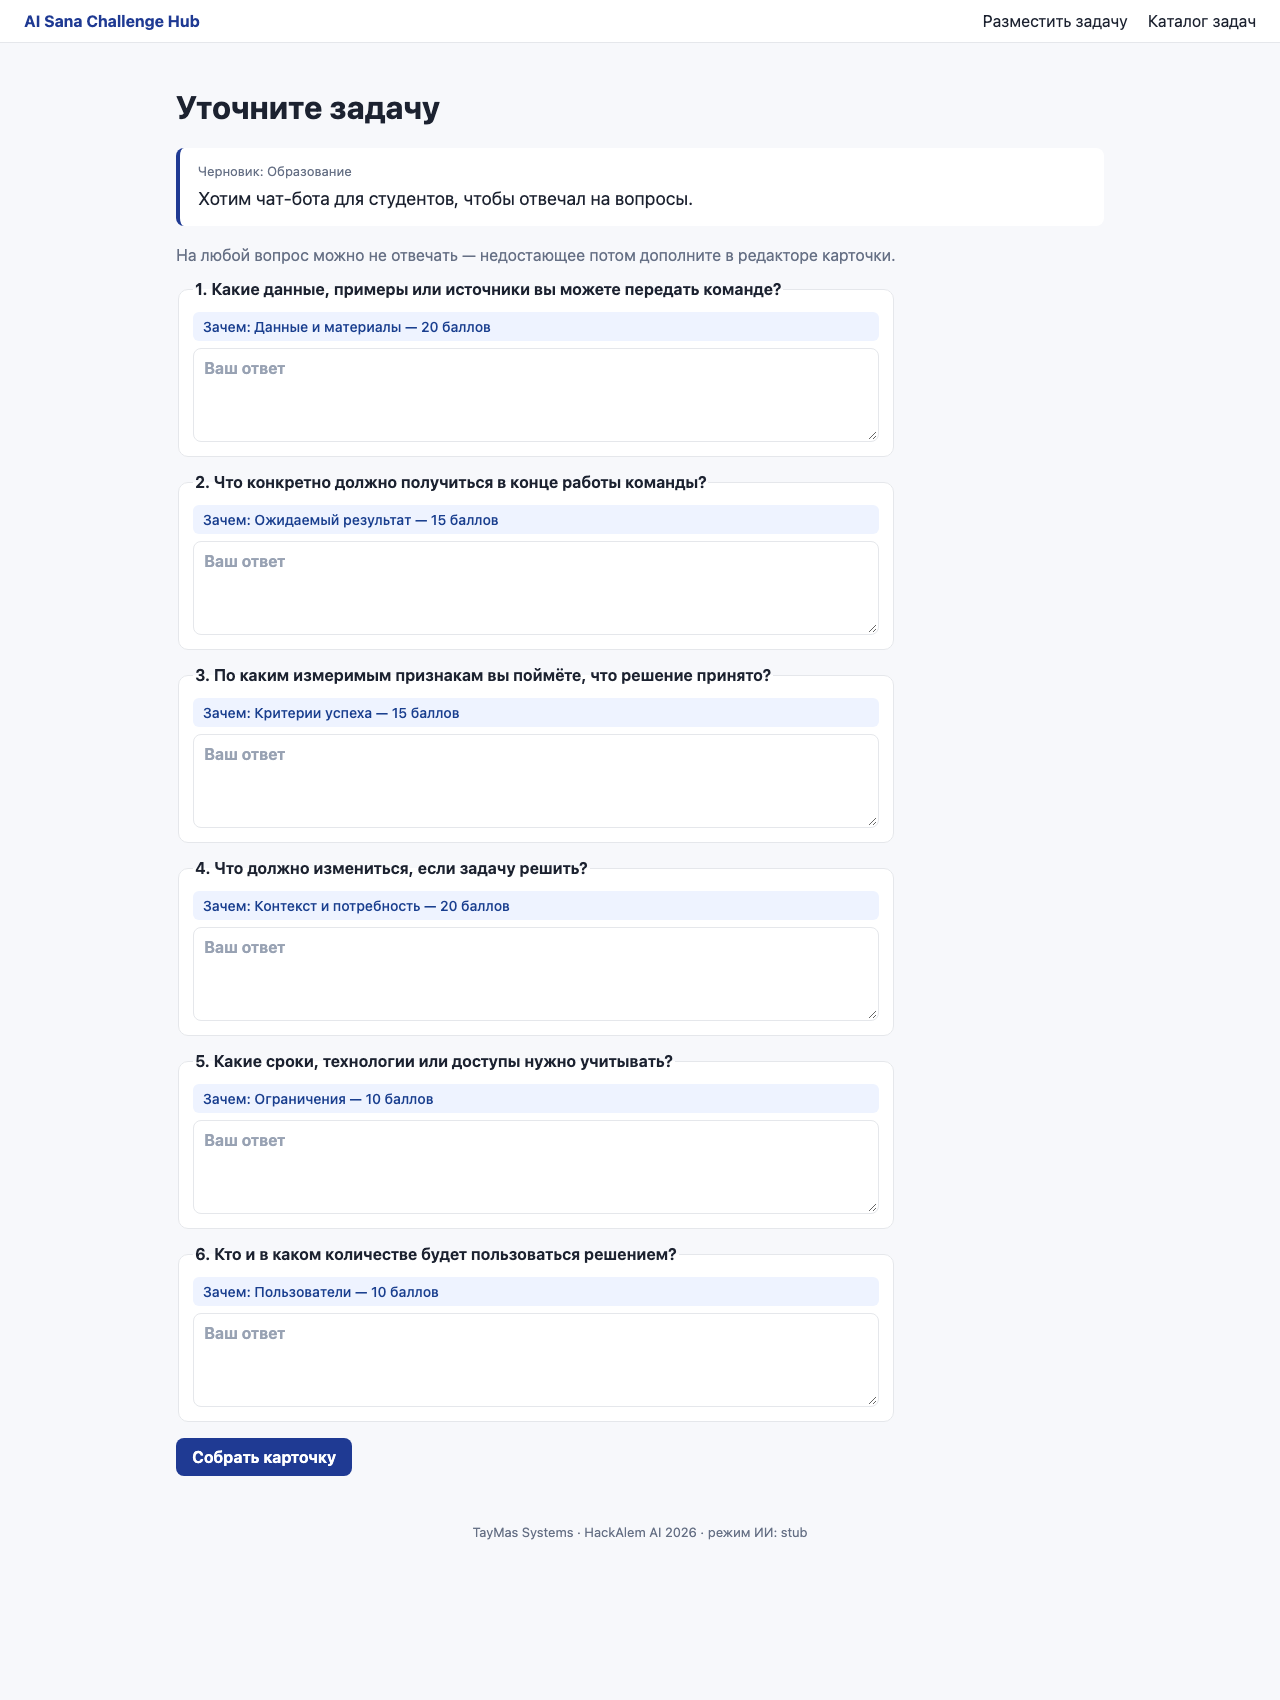
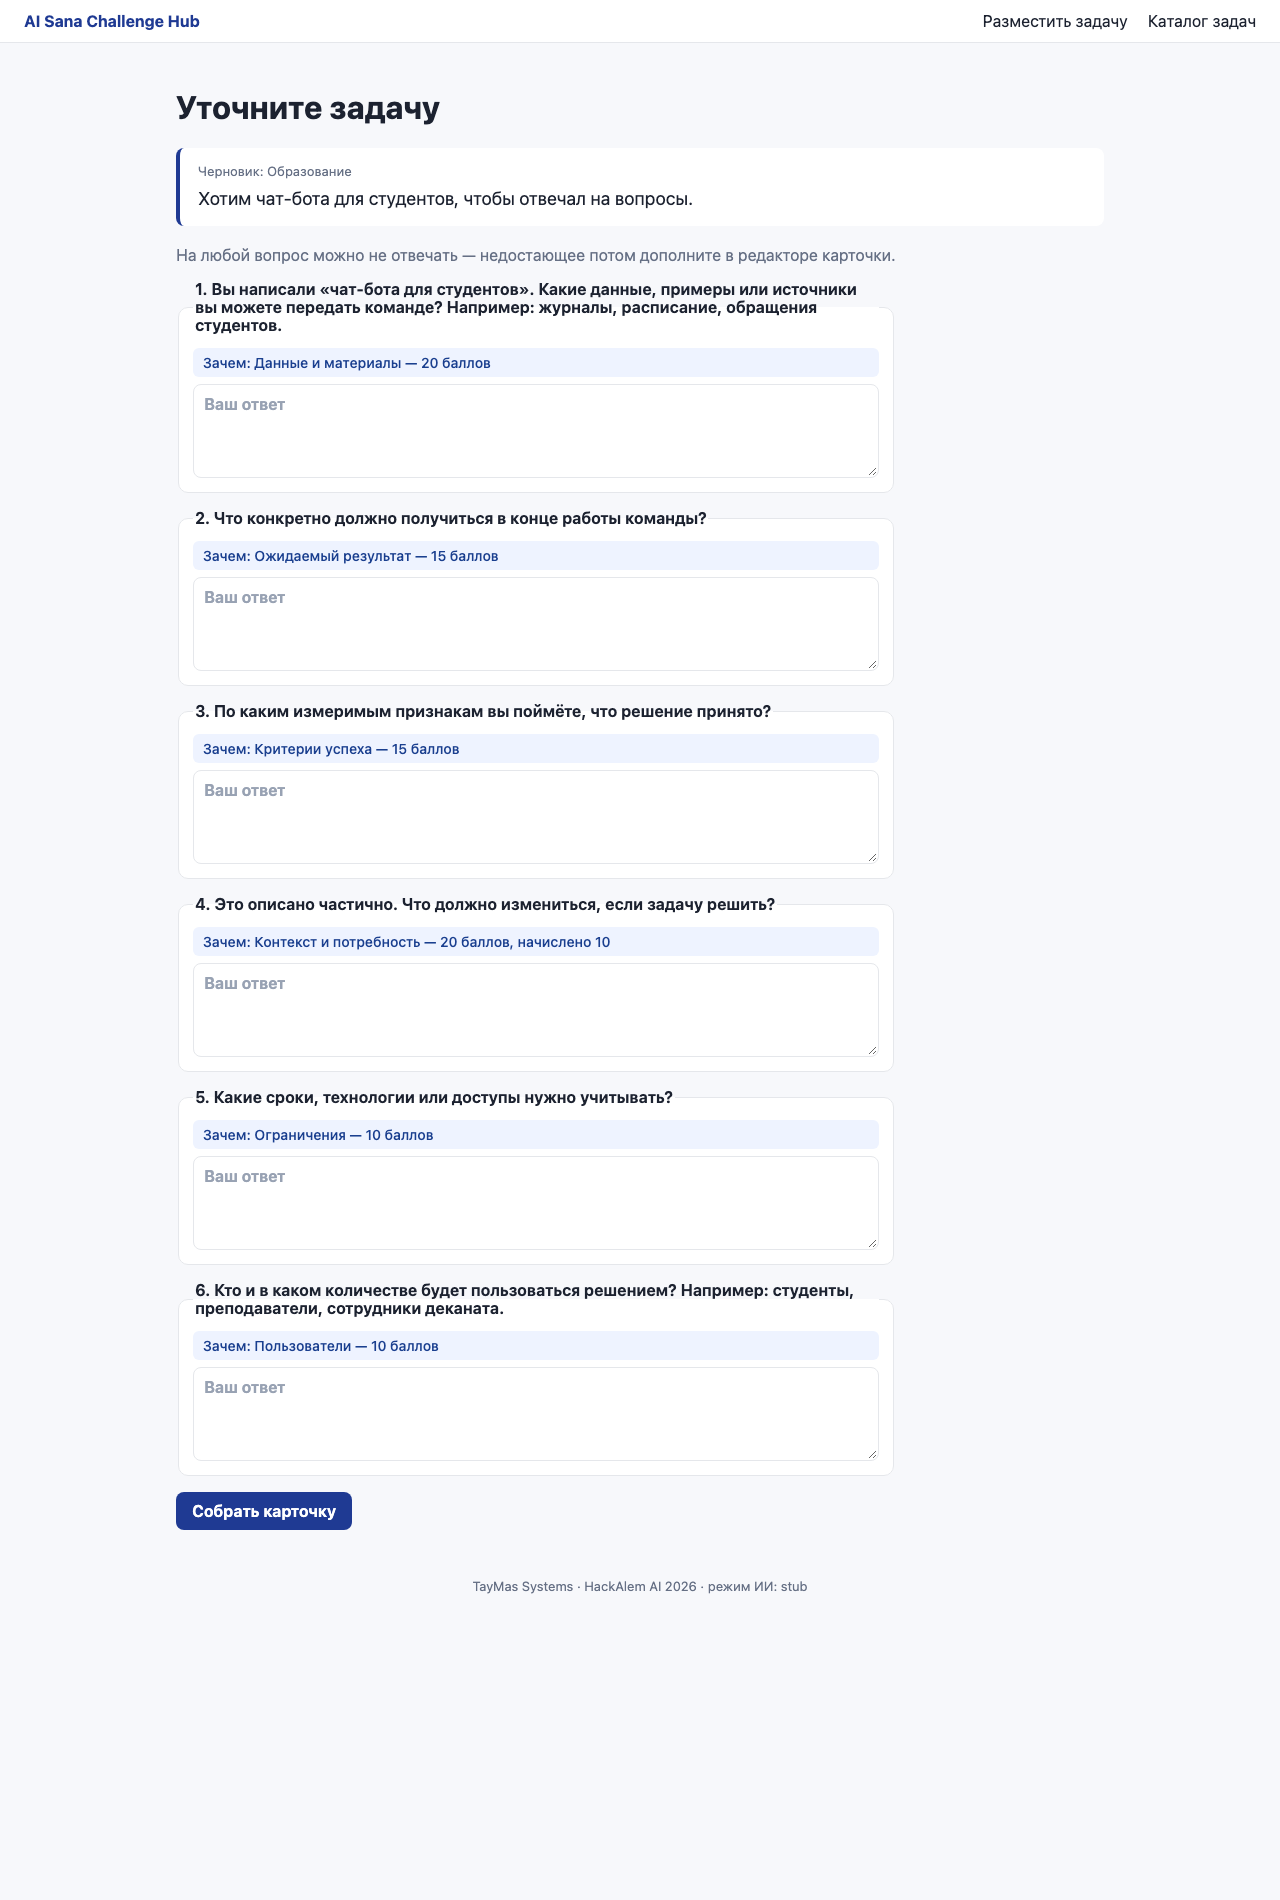
[HAC-33] Заглушка вопросов: цитата из черновика, отраслевые примеры, пометка частичного покрытия
Критерий кейса «Качество карточки» — «вопросы уместны», 15 баллов. Эксперт
техотбора скорее всего запустит проект без ключа и увидит только заглушку,
а она задавала одинаковые вопросы любому черновику.

Теперь первый вопрос цитирует черновик (срез исходной строки по границам слов,
вводные слова пропускаются, мусорный текст цитатой не становится); вопросы про
данные и пользователей дают примеры для отрасли; показатель, частично закрытый
черновиком, помечается «Это описано частично» с указанием начисленного.

Числа демо не изменились: те же 30 «Черновик» → 100 «Приоритетная». Скриншот
03-questions.png переснят, demo-scenario.md и README приведены к новому тексту.

diff --git a/app/ai.py b/app/ai.py
@@ -43,6 +43,37 @@ _STUB_QUESTIONS: dict[str, str] = {
     "interaction_format": "В каком формате и как часто удобно обсуждать задачу с командой?",
 }
 
+# Отраслевые примеры для заглушки: без ключа API вопрос всё равно должен звучать
+# как заданный про эту задачу, а не как строка из анкеты (критерий кейса «вопросы уместны»).
+_INDUSTRY_USERS: dict[str, str] = {
+    "Образование": "студенты, преподаватели, сотрудники деканата",
+    "Финансы": "клиенты, операционисты, риск-менеджеры",
+    "Ритейл": "покупатели, продавцы, категорийные менеджеры",
+    "Логистика": "курьеры, диспетчеры, получатели заказов",
+    "Медицина": "пациенты, врачи, администраторы регистратуры",
+    "Госуслуги": "жители, операторы приёма, профильные специалисты",
+    "Промышленность": "операторы линии, мастера смены, технологи",
+}
+
+_INDUSTRY_DATA: dict[str, str] = {
+    "Образование": "журналы, расписание, обращения студентов",
+    "Финансы": "выписки, заявки, история платежей",
+    "Ритейл": "чеки, остатки, история продаж",
+    "Логистика": "маршруты, накладные, треки доставок",
+    "Медицина": "расписание приёма, обезличенные карты, записи",
+    "Госуслуги": "обращения граждан, реестры, регламенты",
+    "Промышленность": "показания датчиков, журналы смен, спецификации",
+}
+
+# Вводные слова, с которых бизнес обычно начинает черновик: в цитату они не несут смысла.
+_FILLER_PREFIX = {
+    "хотим", "хочу", "нужен", "нужна", "нужно", "необходим", "необходимо", "требуется",
+    "надо", "нам", "мы", "у", "нас", "есть", "сделать", "создать", "разработать", "чтобы",
+}
+
+_QUOTE_WORDS = 4
+_MIN_QUOTE_WORDS = 2
+
 _MIN_QUESTIONS = 3
 _MAX_QUESTIONS = 6
 _FIELD_ENOUGH_LEN = 15  # поле уже достаточно раскрыто в черновике — не переспрашиваем
@@ -71,7 +102,7 @@ def generate_questions(draft_text: str, industry: str) -> list[Question]:
     preliminary = CardFields(context=draft_text.strip())
     if not llm_available():
         _set_fallback_reason(None)
-        return _stub_questions(preliminary)
+        return _stub_questions(preliminary, industry)
 
     questions: list[Question] | None
     try:
@@ -79,7 +110,7 @@ def generate_questions(draft_text: str, industry: str) -> list[Question]:
     except (LLMConfigError, LLMResponseError) as exc:
         logger.warning("LLM недоступен для генерации вопросов, включена заглушка: %s", exc)
         _set_fallback_reason(f"Вопросы: LLM недоступен, использована заглушка ({exc})")
-        return _stub_questions(preliminary)
+        return _stub_questions(preliminary, industry)
 
     if questions is not None:
         _set_fallback_reason(None)
@@ -87,7 +118,7 @@ def generate_questions(draft_text: str, industry: str) -> list[Question]:
 
     logger.warning("Ответ LLM не прошёл валидацию вопросов, включена заглушка")
     _set_fallback_reason("Вопросы: ответ LLM не прошёл валидацию, использована заглушка")
-    return _stub_questions(preliminary)
+    return _stub_questions(preliminary, industry)
 
 
 def build_card(draft_text: str, industry: str, answers: list[Answer]) -> CardFields:
@@ -195,9 +226,48 @@ def _validate_llm_questions(questions: list[Question]) -> list[Question] | None:
     return valid[:_MAX_QUESTIONS]
 
 
-def _stub_questions(card: CardFields) -> list[Question]:
-    """По показателям с недобором — по одному вопросу на поле, в порядке величины недобора."""
+def _draft_quote(text: str) -> str:
+    """Короткая цитата из черновика для подстановки в вопрос.
+
+    Берём первые осмысленные слова, пропустив вводные («хотим», «нужен», «чтобы»).
+    Если осмысленного мало — возвращаем пустую строку и вопрос остаётся типовым:
+    лучше честный шаблон, чем цитата из мусора.
+    """
+    text = (text or "").strip()
+    matches = list(_WORD_RE.finditer(text))
+    skip = 0
+    while skip < len(matches) and matches[skip].group().lower() in _FILLER_PREFIX:
+        skip += 1
+    kept = matches[skip : skip + _QUOTE_WORDS]
+    if len(kept) < _MIN_QUOTE_WORDS:
+        return ""
+    # Срез исходной строки, а не склейка слов: сохраняются дефисы и запятые внутри фразы.
+    quote = text[kept[0].start() : kept[-1].end()]
+    return quote.strip(" ,;:—-")
+
+
+def _stub_question_text(field: str, industry: str, quote: str, partial: bool) -> str:
+    """Типовой вопрос, приправленный контекстом задачи: цитатой, отраслью, пометкой о недоборе."""
+    base = _STUB_QUESTIONS[field]
+    if partial:
+        base = f"Это описано частично. {base}"
+    elif quote:
+        base = f"Вы написали «{quote}». {base}"
+    examples = _INDUSTRY_USERS.get(industry) if field == "users" else _INDUSTRY_DATA.get(industry) if field == "data" else None
+    if examples:
+        base = f"{base} Например: {examples}."
+    return base
+
+
+def _stub_questions(card: CardFields, industry: str = "") -> list[Question]:
+    """По показателям с недобором — по одному вопросу на поле, в порядке величины недобора.
+
+    Формулировка привязана к конкретной задаче: цитата из черновика в первом вопросе,
+    отраслевые примеры там, где они помогают, и пометка, если показатель уже описан частично.
+    """
     rating = compute_rating(card)
+    quote = _draft_quote(card.context)
+    quote_used = False
     gaps = sorted(
         (item for item in rating.items if item.awarded < item.weight),
         key=lambda item: item.weight - item.awarded,
@@ -211,9 +281,14 @@ def _stub_questions(card: CardFields) -> list[Question]:
                 continue
             if len(getattr(card, field, "").strip()) >= _FIELD_ENOUGH_LEN:
                 continue
-            questions.append(
-                Question(field=field, question=_STUB_QUESTIONS[field], why=f"{item.label} — {item.weight} баллов")
-            )
+            partial = item.awarded > 0
+            text = _stub_question_text(field, industry, "" if quote_used else quote, partial)
+            if not partial and quote and not quote_used:
+                quote_used = True
+            why = f"{item.label} — {item.weight} баллов"
+            if partial:
+                why = f"{why}, начислено {item.awarded}"
+            questions.append(Question(field=field, question=text, why=why))
             seen_fields.add(field)
             if len(questions) >= _MAX_QUESTIONS:
                 return questions
@@ -222,7 +297,11 @@ def _stub_questions(card: CardFields) -> list[Question]:
             if field in seen_fields or field not in _STUB_QUESTIONS:
                 continue
             questions.append(
-                Question(field=field, question=_STUB_QUESTIONS[field], why="Поле не заполнено")
+                Question(
+                    field=field,
+                    question=_stub_question_text(field, industry, "", False),
+                    why="Поле не заполнено",
+                )
             )
             seen_fields.add(field)
             if len(questions) >= _MIN_QUESTIONS:

diff --git a/tests/test_ai.py b/tests/test_ai.py
@@ -332,3 +332,71 @@ def test_fallback_reason_is_none_after_successful_card_build(monkeypatch):
     ai.build_card(_DRAFT, "Образование", answers)
 
     assert ai.last_fallback_reason is None
+
+
+# --- уместность вопросов заглушки (HAC-33) ---------------------------------
+
+DRAFT_EDU = "Хотим чат-бота для студентов, чтобы отвечал на вопросы."
+DRAFT_LOG = "Курьеры опаздывают, клиенты жалуются. Нужно что-то с маршрутами."
+
+
+def test_stub_quotes_the_draft():
+    """Критерий кейса «вопросы уместны»: без ключа вопрос всё равно про эту задачу."""
+    from app.ai import generate_questions
+
+    questions = generate_questions(DRAFT_EDU, "Образование")
+    quoted = [q for q in questions if "чат-бота для студентов" in q.question]
+    assert quoted, [q.question for q in questions]
+    assert "Вы написали" in quoted[0].question
+
+
+def test_stub_questions_differ_between_drafts():
+    from app.ai import generate_questions
+
+    edu = {q.question for q in generate_questions(DRAFT_EDU, "Образование")}
+    log = {q.question for q in generate_questions(DRAFT_LOG, "Логистика")}
+    assert edu != log
+    # Отраслевые примеры не путаются между собой.
+    assert any("студенты, преподаватели" in q for q in edu)
+    assert any("курьеры, диспетчеры" in q for q in log)
+    assert not any("курьеры" in q for q in edu)
+
+
+def test_stub_marks_partially_covered_indicator():
+    """Черновик уже даёт контекст — про него не спрашивают с нуля."""
+    from app.ai import generate_questions
+
+    questions = generate_questions(DRAFT_EDU, "Образование")
+    partial = [q for q in questions if q.field == "need"]
+    assert partial and "частично" in partial[0].question
+    assert "начислено" in partial[0].why
+
+
+def test_stub_quote_skipped_for_meaningless_draft():
+    """Мусор в черновике не должен попадать в вопрос цитатой."""
+    from app.ai import _draft_quote, generate_questions
+
+    assert _draft_quote("😀😀😀") == ""
+    assert _draft_quote("нужно") == ""
+    questions = generate_questions("😀😀😀", "Другое")
+    assert len(questions) >= 3
+    assert not any("Вы написали" in q.question for q in questions)
+
+
+def test_stub_quote_preserves_punctuation_inside_phrase():
+    from app.ai import _draft_quote
+
+    assert _draft_quote(DRAFT_EDU) == "чат-бота для студентов"
+    assert _draft_quote(DRAFT_LOG) == "Курьеры опаздывают, клиенты жалуются"
+
+
+def test_stub_questions_cover_distinct_fields_for_any_input():
+    """Три разных вопроса по трём разным полям — на любом входе, включая мусор."""
+    from app.ai import generate_questions
+
+    for draft in [DRAFT_EDU, "ааааааааа", "😀", "x" * 4000, "<script>alert(1)</script>", ""]:
+        questions = generate_questions(draft, "Другое")
+        assert len(questions) >= 3, draft[:30]
+        fields = [q.field for q in questions]
+        assert len(set(fields)) == len(fields), fields
+        assert all(q.question.strip() for q in questions)

diff --git a/data/demo-scenario.md b/data/demo-scenario.md
@@ -34,7 +34,11 @@
 
 | Вопрос | Ответ |
 | --- | --- |
-| Какие данные, примеры или источники вы можете передать команде? | Есть FAQ на 120 вопросов в Google Docs, расписание на семестр в Excel, лог обращений за год — около 3 000 сообщений. |
+| «Вы написали „чат-бота для студентов“. Какие данные, примеры или источники вы можете передать команде? Например: журналы, расписание, обращения студентов.» | Есть FAQ на 120 вопросов в Google Docs, расписание на семестр в Excel, лог обращений за год — около 3 000 сообщений. |
+
+Обратить внимание жюри: вопрос **цитирует черновик** и приводит примеры **для отрасли «Образование»** —
+даже без ключа API он звучит как заданный про эту задачу, а не как строка из анкеты. Вопрос про
+потребность помечен «Это описано частично»: система видит, что контекст в черновике уже есть.
 
 «Собрать карточку» → редактор.
 
